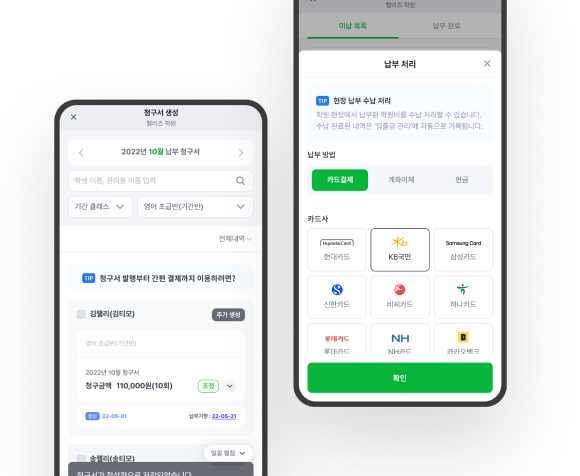
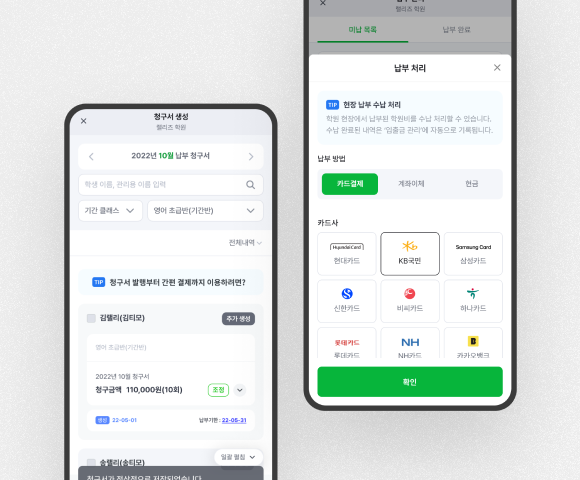
메인·프로젝트 목록: 셀프라이브·청구서 썸네일 교체 및 캐시 버스트(?v=20260412)
Made-with: Cursor

diff --git a/project.html b/project.html
@@ -60,7 +60,7 @@
       <article class="project-card project-card--linked" id="project-selflive" data-reveal>
         <a class="project-card__hit-area" href="project-selflive.html" aria-label="셀프라이브 성과 지표 강화 — 프로젝트 상세 보기"></a>
         <div class="project-card__thumb project-card__thumb--neutral">
-          <img src="assets/image/main/thumbnail_selflive.png" width="1164" height="960" alt="" decoding="async" loading="lazy">
+          <img src="assets/image/main/thumbnail_selflive.png?v=20260412" width="1164" height="960" alt="" decoding="async" loading="lazy">
         </div>
         <div class="project-card__content">
           <h2 class="project-card__title">셀프라이브 성과 지표 강화<br>(자연유입 비율 확보 : 공급자 대상)</h2>
@@ -90,7 +90,7 @@
       <article class="project-card project-card--linked" id="project-payment" data-reveal>
         <a class="project-card__hit-area" href="project-payment.html" aria-label="청구서 관리 사용성 개선 — 프로젝트 상세 보기"></a>
         <div class="project-card__thumb project-card__thumb--neutral">
-          <img src="assets/image/main/thumbnail_payment.png" width="1164" height="960" alt="" decoding="async" loading="lazy">
+          <img src="assets/image/main/thumbnail_payment.png?v=20260412" width="1164" height="960" alt="" decoding="async" loading="lazy">
         </div>
         <div class="project-card__content">
           <h2 class="project-card__title">불편했던 청구서 관리,<br>맥락있는 관리를 위한 사용성 개선</h2>

diff --git a/index.html b/index.html
@@ -91,7 +91,7 @@
           <a class="project-card__link" href="project-selflive.html">
             <div class="project-card__media project-card__media--neutral">
               <img
-                src="assets/image/main/thumbnail_selflive.png"
+                src="assets/image/main/thumbnail_selflive.png?v=20260412"
                 width="1164"
                 height="960"
                 alt="셀프라이브 성과 지표 강화 썸네일"
@@ -113,7 +113,7 @@
           <a class="project-card__link" href="project-payment.html">
             <div class="project-card__media project-card__media--neutral">
               <img
-                src="assets/image/main/thumbnail_payment.png"
+                src="assets/image/main/thumbnail_payment.png?v=20260412"
                 width="1164"
                 height="960"
                 alt="청구서 관리 서비스 UX/UI 개선 썸네일"
